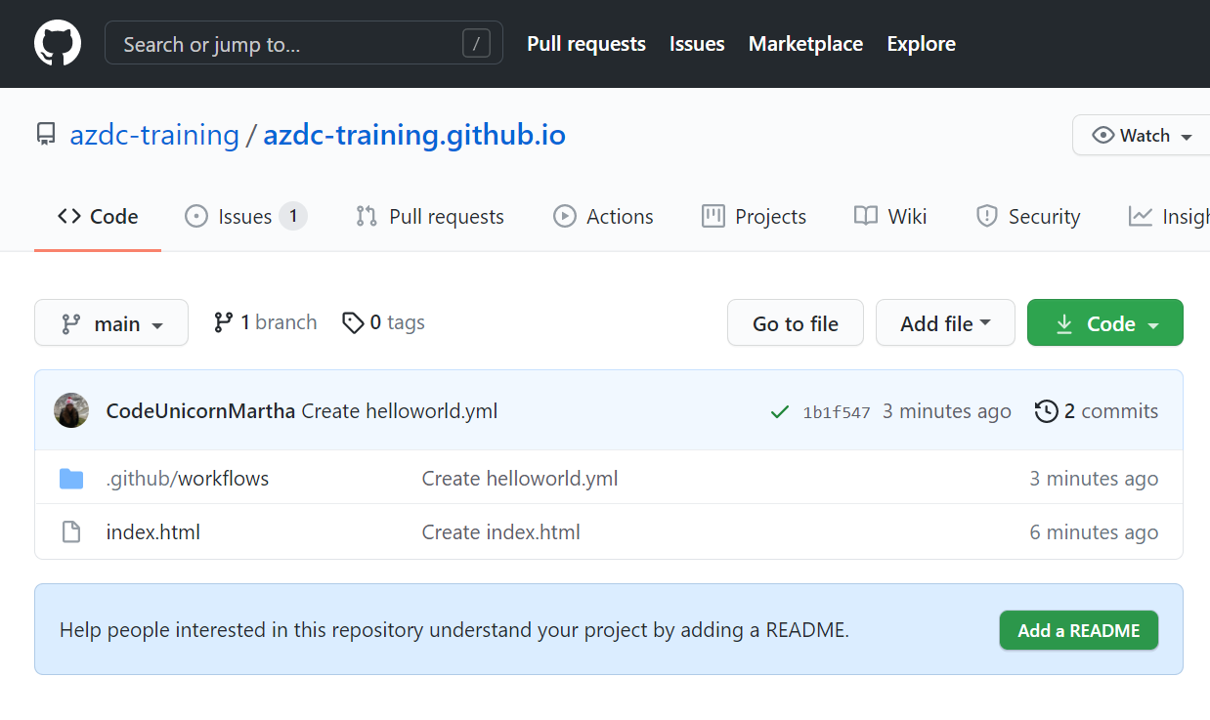
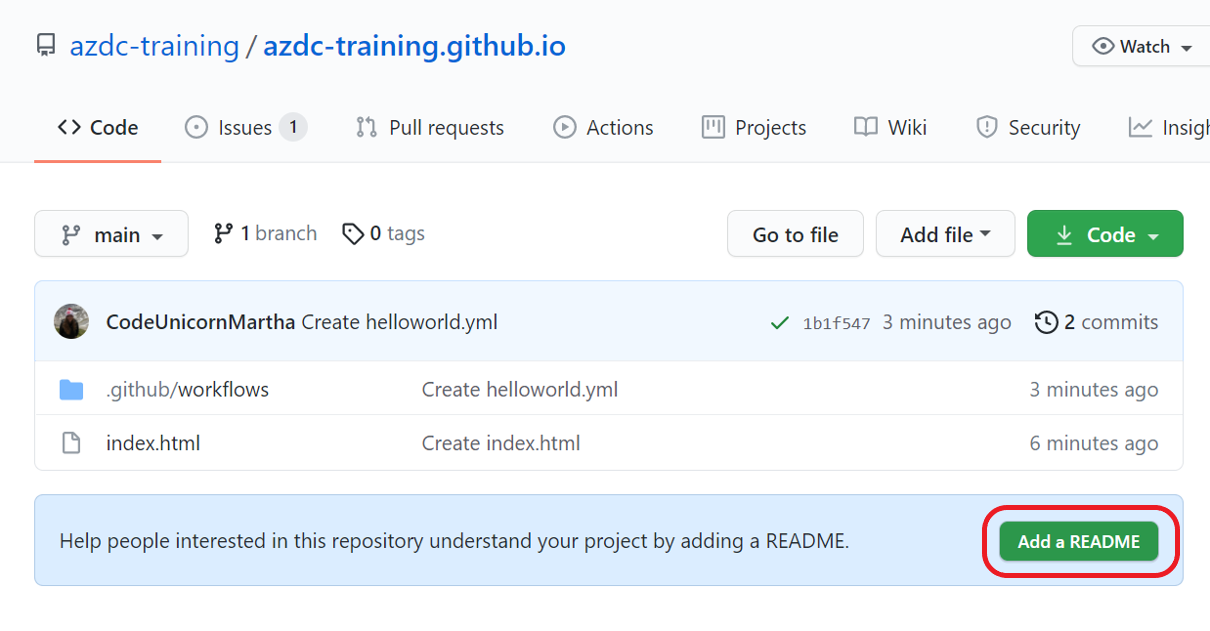
Finish challenge 02

diff --git a/day4/challenges/02-github-actions-intro.md b/day4/challenges/02-github-actions-intro.md
@@ -163,7 +163,9 @@ using the `set up a workflow yourself` option.
 Take a good look at the provided example as it has comments every line for you
 to orient yourself if the syntax for workflows is new to you.
 
-:::tip 📝
+:::tip
+
+📝
 If you are all new to `yaml` please take a look at the [further
 reading](#further-reading) section at the end of this page.
 :::
@@ -219,6 +221,8 @@ Some of the most used events are:
 - **release**: triggered when a new release tag was created on your repository.
 - **workflow_dispatch**: triggered when a user manually starts the workflow
   on the GitHub website.
+- **repository_dispatch**: to allow custom webhooks to trigger your workflow.
+- **schedule**: for recurring task to run on a schedule.
 
 You can configure your workflows to run when specific activity on GitHub
 happens, at a scheduled time, or when an event outside of GitHub occurs.
@@ -344,9 +348,33 @@ section.
 
 ## Run a static site generator in your workflow
 
-Then we will add our first README.md:
+Now we will combine what we have learned about Pages and Actions to create a
+workflow that takes the markdown files in our repository, generates a static
+html website and deploys it directly to our GitHub Page.
+
+Since our repository does not even have a minimal `README.md` file at the moment
+let's create one. GitHub should show you an `Add a README` button right on your
+projects landing page.
 
 ![Add README.md](./images/AddReadMe.png)
+
+Write you own `README` or copy over the sample we've provided here. This
+`README` will be the basis for your website content we will generate using
+[VuePress](https://vuepress.vuejs.org/).
+
+The sample shows some of the basics you can do with Markdown. Markdown uses a
+simple plain text system to be rendered to semantic HTML.
+
+:::tip
+
+📝
+Note that GitHub renders the `README.md` using [GitHub Flavored
+Markdown](https://github.github.com/gfm/) to display a landing page for your
+project whereas [VuePress](https://vuepress.vuejs.org/) uses
+[markdown-it](https://github.com/markdown-it/markdown-it) to render the Markdown
+into HTML.
+
+:::
 
 ````md
 # azdc-training.github.io
@@ -369,9 +397,41 @@ But I have to admit, tasks lists are my favorite:
 
 - [x] This is a complete item
 - [ ] This is an incomplete item
+
+Don't forget to add images:
+
+![wow](https://upload.wikimedia.org/wikipedia/en/5/5f/Original_Doge_meme.jpg)
+
+and [Links](https://en.wikipedia.org/wiki/Doge_(meme)
 ````
 
-![README](./images/ReadMeSample.png)
+### Setting up the workflow
+
+This time we will start to write a little more complex workflow that will do the
+following:
+
+- when pushing to the `main` branch
+- or when creating a Pull Request to the `main` branch
+
+- run a `build` job that
+
+  - checks out the source code
+  - sets up nodejs
+  - runs the `vuepress build` using `npx`
+  - stores the result as an artifact
+
+- and a `deploy` job
+
+  - that only runs on the `main` branch
+  - downloads the stored artifact
+  - deploys the content of the artifact on the `gh-pages` branch in the same repository
+
+:::warning
+
+To see that the deploy job only runs on the main branch commit the workflow file
+on a separate branch and open a new Pull Request.
+
+:::
 
 ```yml
 name: pages
@@ -423,12 +483,31 @@ jobs:
           GITHUB_TOKEN: ${{ secrets.GITHUB_TOKEN }}
 ```
 
+Once we approve the Pull Request both jobs should execute and you should see a
+new branch named `gh-pages` on your repository.
+
+Your GitHub Page still serves the default `main` branch so for you to actually
+see the hosted website change you need to go to your repositories `Settings > Pages`
+site, change the branch used to serve the Page and save.
+
 ![change branches](./images/changebranchesinpages.png)
 
-![save branch](./images/changebranchessave.png)
+Now your website should update and show the content of the `README.md` rendered
+using VuePress.
 
 ![vuepress](./images/vuepressreadme.png)
 
+### What we've learned
+
+We've taken a tour of two important features of GitHub. We've seen GitHub
+Actions being able to build, test and deploy a simple website and having the
+ability to do workflow scripting using GitHubs own APIs.
+
+And we've discovered GitHub Pages and used them as a deployment target for our
+first CI/CD pipeline creating a static website.
+
 ### Further reading
 
-[Introduction to YAML](https://dev.to/paulasantamaria/introduction-to-yaml-125f)
+- [Introduction to YAML](https://dev.to/paulasantamaria/introduction-to-yaml-125f)
+- [VuePress](https://vuepress.vuejs.org/)
+- [Netlify CMS](https://www.netlifycms.org/)
